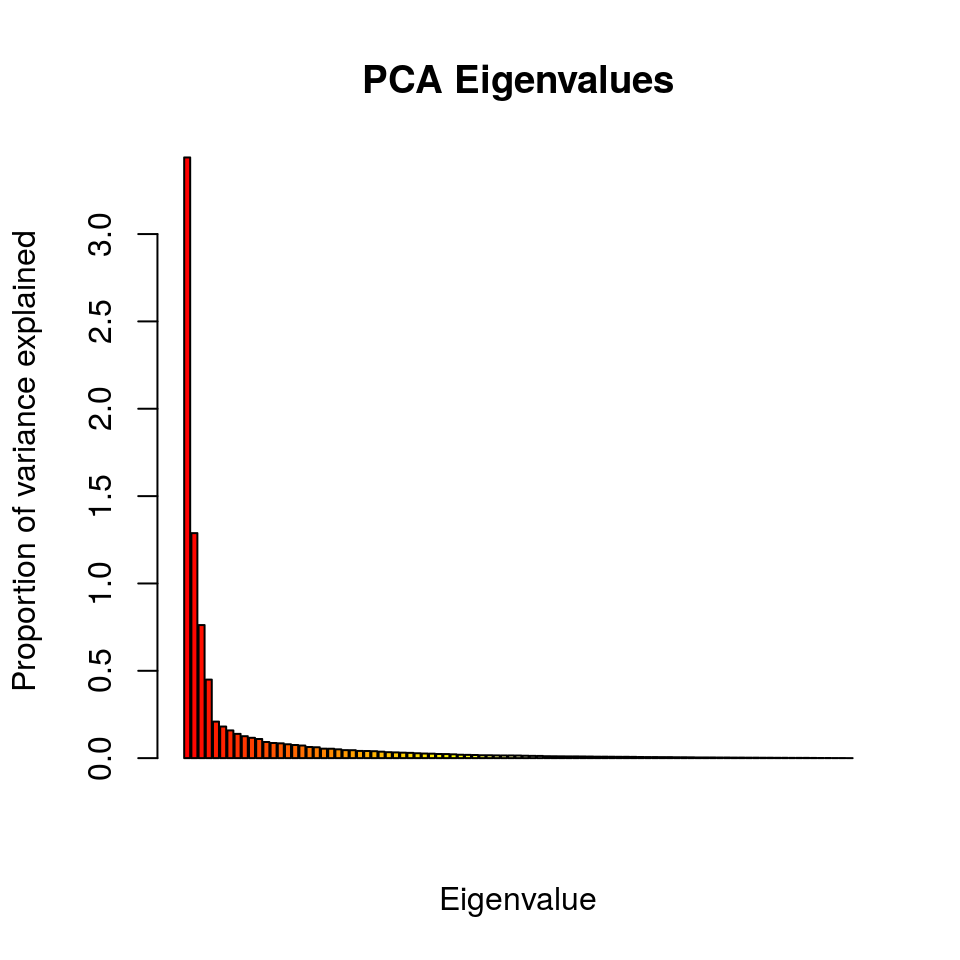
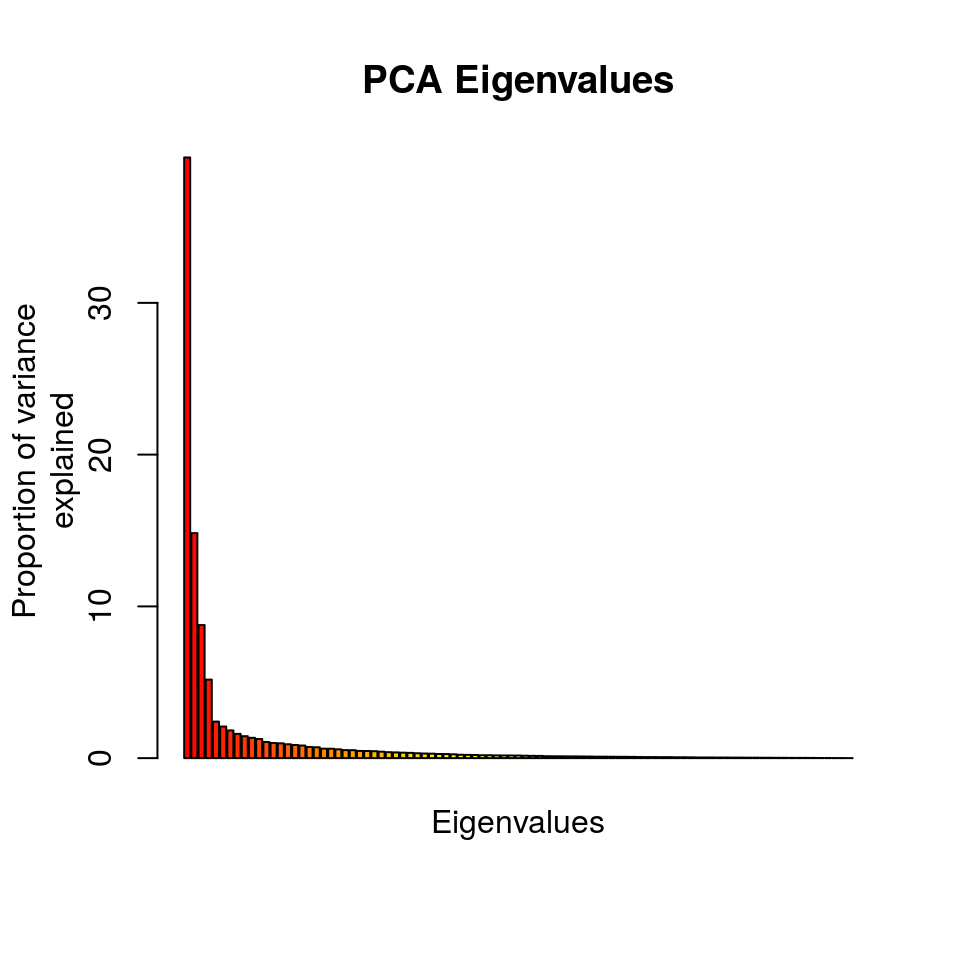
Added all, PCA barplot show prop var explained

diff --git a/gbs_analysis.html b/gbs_analysis.html
@@ -415,14 +415,8 @@ $(document).ready(function () {
 <p>VCF data does not typically include any sort of population information. We have to load this data separately from the text-delimited file we downloaded above that includes the ID of samples and the state where the samples were obtained from. Let’s load the <code>population_data.gbs.txt</code> file into memory by using the <code>read.table()</code> function:</p>
 <div class="sourceCode"><pre class="sourceCode r"><code class="sourceCode r">pop.data &lt;-<span class="st"> </span><span class="kw">read.table</span>(<span class="st">&quot;population_data.gbs.txt&quot;</span>, <span class="dt">sep =</span> <span class="st">&quot;</span><span class="ch">\t</span><span class="st">&quot;</span>, <span class="dt">header =</span> <span class="ot">TRUE</span>)</code></pre></div>
 <p>We can now check that all the samples in the VCF and the population data frame are included:</p>
-<div class="sourceCode"><pre class="sourceCode r"><code class="sourceCode r"><span class="kw">colnames</span>(rubi.VCF<span class="op">@</span>gt)[<span class="op">-</span><span class="dv">1</span>] <span class="op">==</span><span class="st"> </span>pop.data<span class="op">$</span>AccessID</code></pre></div>
-<pre><code>##  [1] TRUE TRUE TRUE TRUE TRUE TRUE TRUE TRUE TRUE TRUE TRUE TRUE TRUE TRUE
-## [15] TRUE TRUE TRUE TRUE TRUE TRUE TRUE TRUE TRUE TRUE TRUE TRUE TRUE TRUE
-## [29] TRUE TRUE TRUE TRUE TRUE TRUE TRUE TRUE TRUE TRUE TRUE TRUE TRUE TRUE
-## [43] TRUE TRUE TRUE TRUE TRUE TRUE TRUE TRUE TRUE TRUE TRUE TRUE TRUE TRUE
-## [57] TRUE TRUE TRUE TRUE TRUE TRUE TRUE TRUE TRUE TRUE TRUE TRUE TRUE TRUE
-## [71] TRUE TRUE TRUE TRUE TRUE TRUE TRUE TRUE TRUE TRUE TRUE TRUE TRUE TRUE
-## [85] TRUE TRUE TRUE TRUE TRUE TRUE TRUE TRUE TRUE TRUE</code></pre>
+<div class="sourceCode"><pre class="sourceCode r"><code class="sourceCode r"><span class="kw">all</span>(<span class="kw">colnames</span>(rubi.VCF<span class="op">@</span>gt)[<span class="op">-</span><span class="dv">1</span>] <span class="op">==</span><span class="st"> </span>pop.data<span class="op">$</span>AccessID)</code></pre></div>
+<pre><code>## [1] TRUE</code></pre>
 <p>Remember, the first column for the <em>vcfR</em> object’s GT slot is a <code>FORMAT</code> column, hence we removed it from the name comparison step (i.e., by removing the first element in the column names vector, the <code>FORMAT</code> column name). If we keep the <code>FORMAT</code> column name we will not be able to compare between the names of the samples in the <em>vcfR</em> object. All of the 94 samples in the population data frame loaded in the <em>vcfR</em> object are in the same order.</p>
 </div>
 <div id="converting-the-dataset-to-a-genlight-object" class="section level2">
@@ -515,9 +509,9 @@ node.size &lt;-<span class="st"> </span><span class="kw">rep</span>(<span class=
 <h3>Principal components analysis</h3>
 <p>A principal components analysis (PCA) converts the observed SNP data into a set of values of linearly uncorrelated variables called <code>principal components</code> that summarize the variation between samples. We can perform a PCA on our genlight object by using the <code>glPCA</code> function.</p>
 <div class="sourceCode"><pre class="sourceCode r"><code class="sourceCode r">rubi.pca &lt;-<span class="st"> </span><span class="kw">glPca</span>(gl.rubi, <span class="dt">nf =</span> <span class="dv">3</span>)
-<span class="kw">barplot</span>(rubi.pca<span class="op">$</span>eig, <span class="dt">col =</span> <span class="kw">heat.colors</span>(<span class="dv">50</span>), <span class="dt">main=</span><span class="st">&quot;PCA Eigenvalues&quot;</span>)
-<span class="kw">title</span>(<span class="dt">ylab=</span><span class="st">&quot;Proportion of variance explained&quot;</span>)
-<span class="kw">title</span>(<span class="dt">xlab=</span><span class="st">&quot;Eigenvalue&quot;</span>)</code></pre></div>
+<span class="kw">barplot</span>(<span class="dv">100</span><span class="op">*</span>rubi.pca<span class="op">$</span>eig<span class="op">/</span><span class="kw">sum</span>(rubi.pca<span class="op">$</span>eig), <span class="dt">col =</span> <span class="kw">heat.colors</span>(<span class="dv">50</span>), <span class="dt">main=</span><span class="st">&quot;PCA Eigenvalues&quot;</span>)
+<span class="kw">title</span>(<span class="dt">ylab=</span><span class="st">&quot;Proportion of variance</span><span class="ch">\n</span><span class="st">explained&quot;</span>, <span class="dt">line =</span> <span class="dv">2</span>)
+<span class="kw">title</span>(<span class="dt">xlab=</span><span class="st">&quot;Eigenvalues&quot;</span>, <span class="dt">line =</span> <span class="dv">1</span>)</code></pre></div>
 <p><img src="gbs_analysis_files/figure-html/unnamed-chunk-16-1.png" width="480" style="display: block; margin: auto;" /></p>
 <p>The barplot indicates that we will need to only retain the first 3 PCAs, which cumulatively explain explain <code>63.183</code> percent of the variance of the data.</p>
 <p>To view the results of the PCA we can use the package <code>ggplot2</code>. We need to convert the data frame that contains the principal components (<code>rubi.pca$scores</code>) into the new object <code>rubi.pca.scores</code>. In addition, we will add the population values as a new column in our <code>rubi.pca.scores</code> object, in order to be able to color samples by population.</p>
